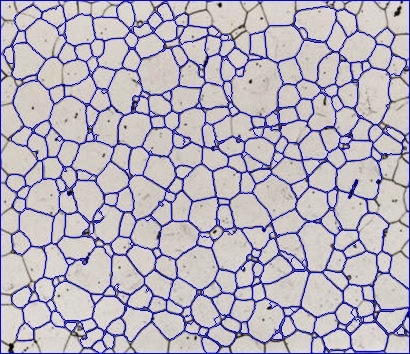
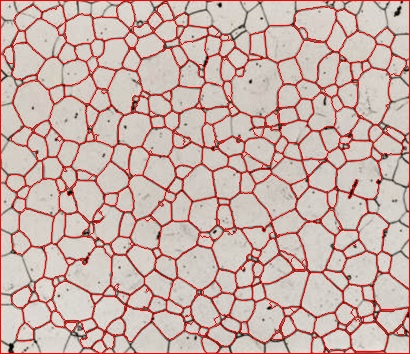
updates

diff --git a/opencv/8.Grain_size_analysis_Watershed.py b/opencv/8.Grain_size_analysis_Watershed.py
@@ -41,7 +41,7 @@ markers[unknown==255] = 0
 
 markers = cv2.watershed(img_color,markers)
 
-img_color[markers == -1] = [255,0,0]
+img_color[markers == -1] = [0,0,255]
 
 # color each grain
 img_grain_color = color.label2rgb(markers, bg_label=0)
@@ -51,4 +51,3 @@ cv2.imshow("colored grains",img_grain_color)
 cv2.waitKey(0)
 
 cv2.imwrite("opencv/processed_image/8watershed.jpg", img_color)
-cv2.imwrite("opencv/processed_image/8colored_grains.jpg", img_grain_color)
